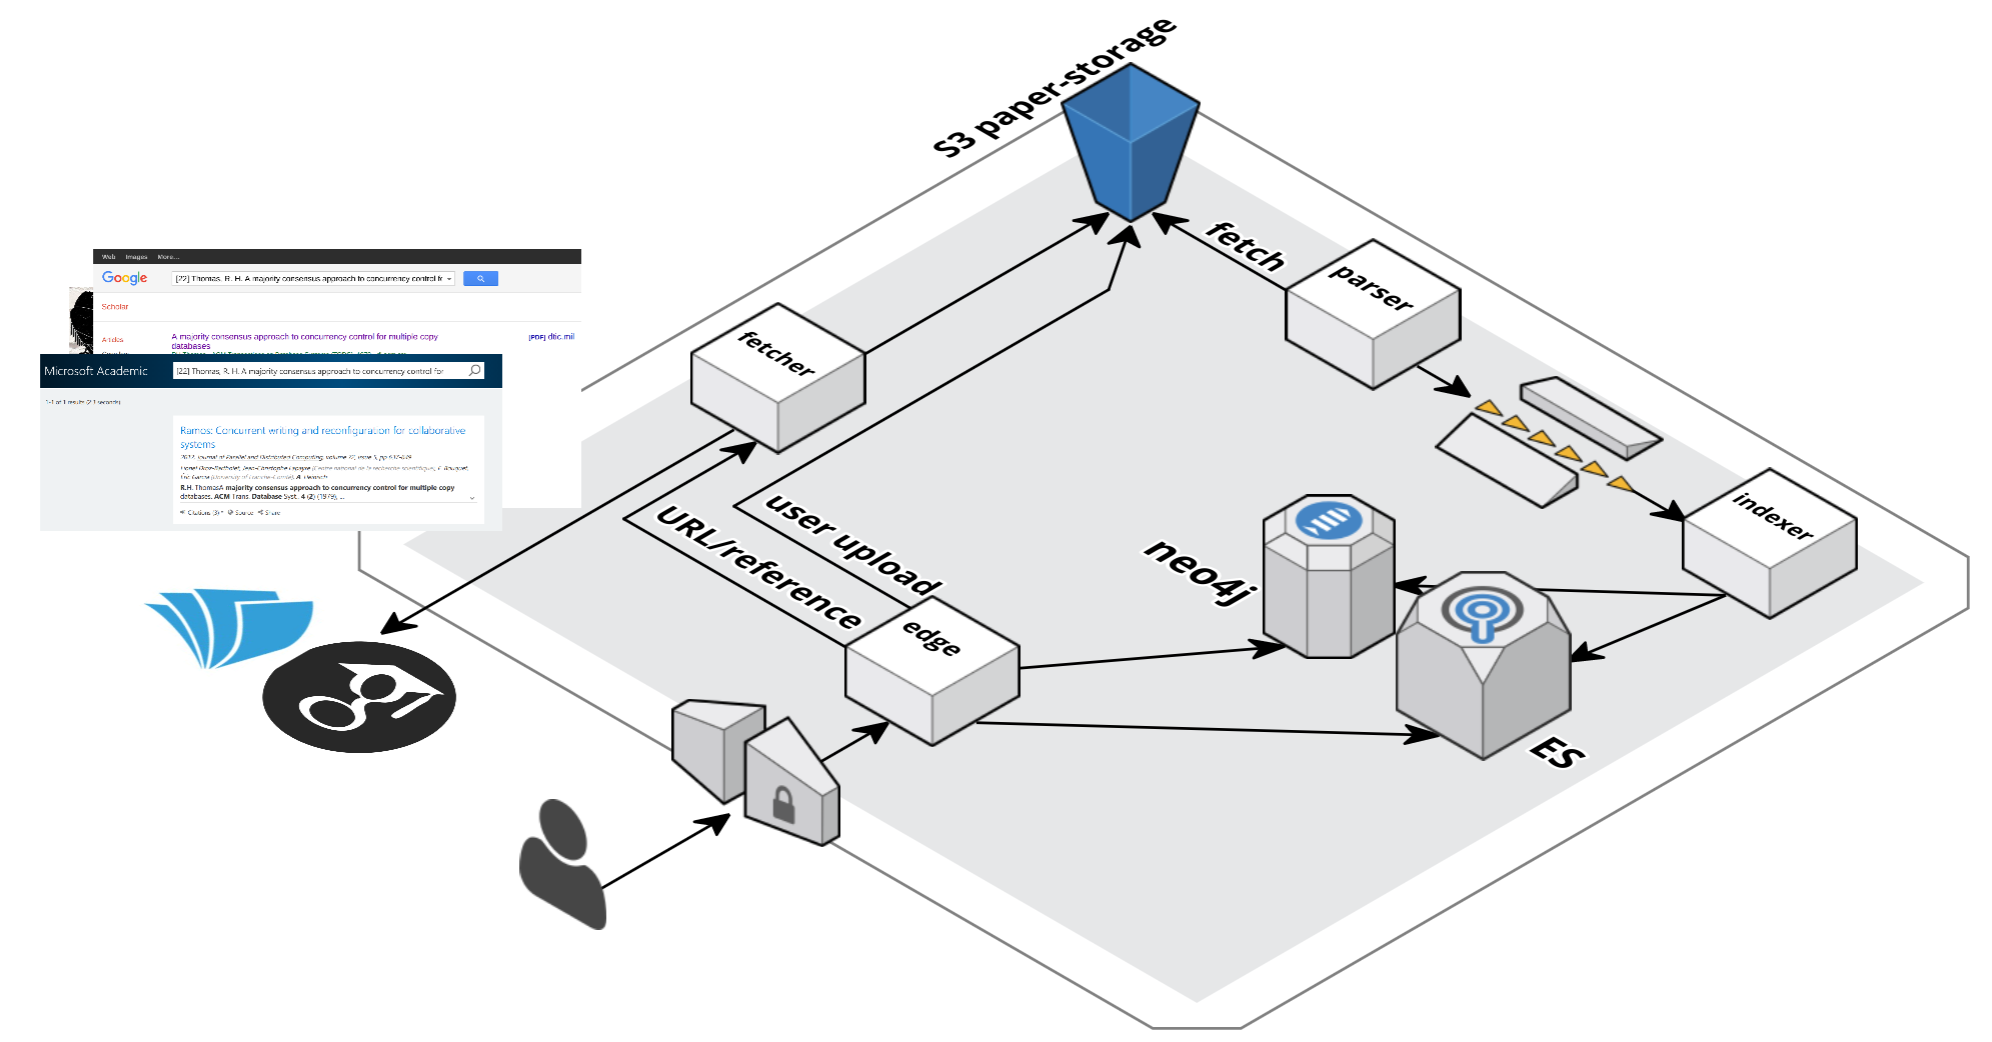
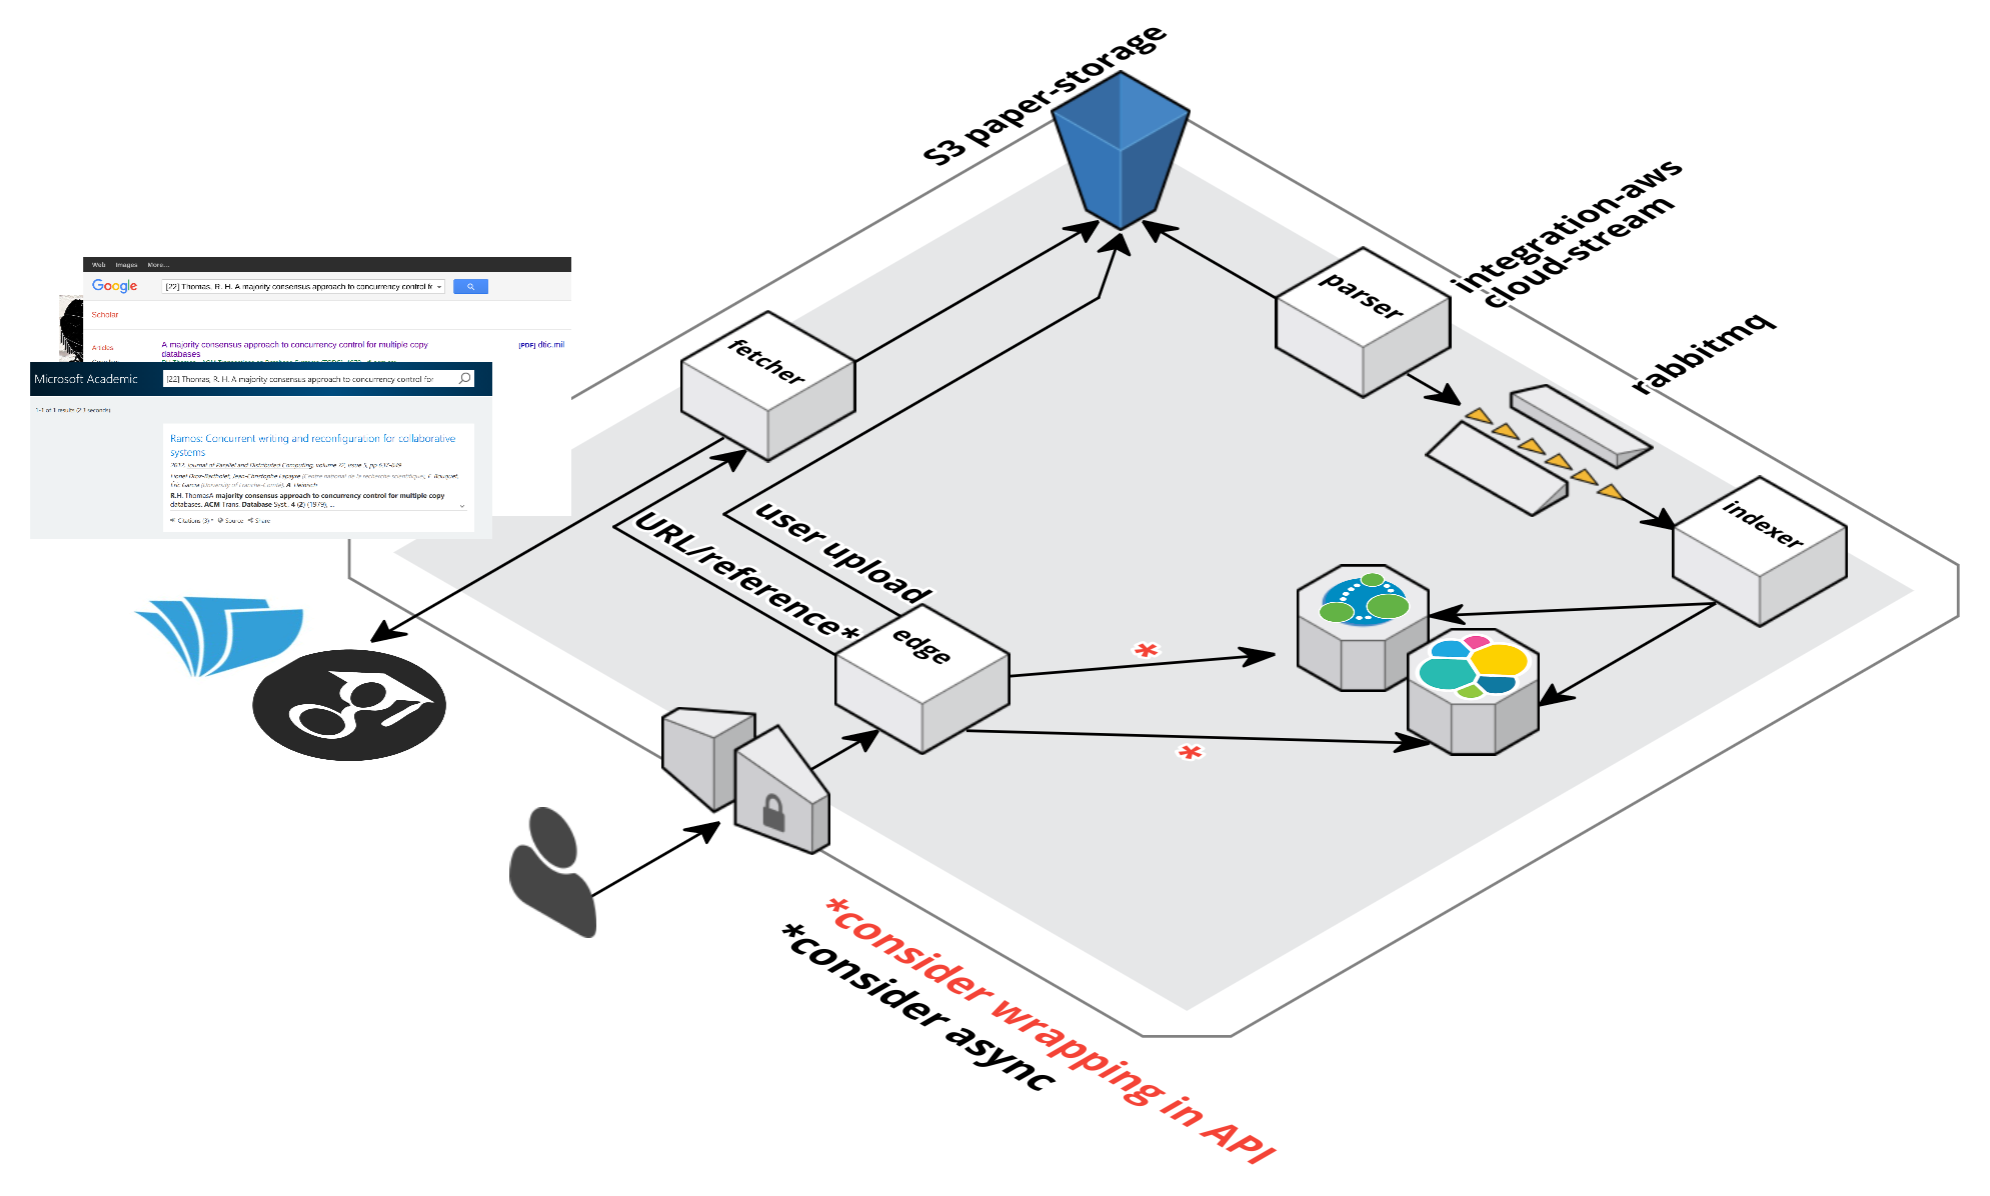
basic neo4j repository/index, diagram, todos

diff --git a/src/main/java/golonzovsky/paperreader/ReceiverConfig.java b/src/main/java/golonzovsky/paperreader/ReceiverConfig.java
@@ -1,8 +1,8 @@
 package golonzovsky.paperreader;
 
 import lombok.extern.slf4j.Slf4j;
+import org.springframework.beans.factory.InitializingBean;
 import org.springframework.beans.factory.annotation.Autowired;
-import org.springframework.boot.SpringApplication;
 import org.springframework.cloud.stream.annotation.EnableBinding;
 import org.springframework.cloud.stream.annotation.StreamListener;
 import org.springframework.cloud.stream.messaging.Sink;
@@ -20,14 +20,29 @@ import java.io.File;
 
 /* todo extract so separate app */
 @Slf4j
-@Configuration
 @EnableBinding(Sink.class)
 public class ReceiverConfig {
 
+    @Autowired
+    PaperRepository neoRepo;
+
+    @Bean
+    public InitializingBean init() {//todo dev only. remove
+        return neoRepo::deleteAll;
+    }
+
     @StreamListener(Sink.INPUT)
-    public void receiveAsync(Paper p) {
-        log.info("RECEIVE ASYNC '{}'", p.getTitle());
-        //todo store to neo4j and mongo/elastic for text search
+    public void createNeo4jEntry(Paper p) {
+        log.info("indexing createNeo4jEntry for '{}'", p.getTitle());
+        //todo store to neo4j finding existing references
+        neoRepo.save(p);
+    }
+
+    @StreamListener(Sink.INPUT)
+    public void createTextIndexEntry(Paper p) {
+        log.info("indexing createTextIndexEntry for'{}'", p.getTitle());
+        //todo store to mongo/elastic for full text search
+
     }
 
 }

diff --git a/src/main/java/golonzovsky/paperreader/Paper.java b/src/main/java/golonzovsky/paperreader/Paper.java
@@ -4,16 +4,26 @@ import lombok.Builder;
 import lombok.Getter;
 import lombok.Setter;
 import lombok.ToString;
+import org.neo4j.ogm.annotation.GraphId;
+import org.neo4j.ogm.annotation.NodeEntity;
+import org.neo4j.ogm.annotation.Relationship;
+import org.neo4j.ogm.annotation.Transient;
 
 import java.util.List;
 
-@Getter
-@Setter
-@ToString
-@Builder
-class Paper {
+@NodeEntity
+@Getter @Setter @ToString @Builder
+public class Paper {
+    @GraphId private Long id;
     private String title;
     private String authors;
+
+    @Transient
     private String referencesFull;
-    private List<String> references;
+
+    @Transient
+    private List<String> referencesText;
+
+    @Relationship(type = "REFERENCES")
+    private List<Paper> references;
 }

diff --git a/src/main/java/golonzovsky/paperreader/PaperRepository.java b/src/main/java/golonzovsky/paperreader/PaperRepository.java
@@ -1,0 +1,9 @@
+package golonzovsky.paperreader;
+
+import org.springframework.data.repository.PagingAndSortingRepository;
+import org.springframework.stereotype.Repository;
+
+@Repository
+public interface PaperRepository extends PagingAndSortingRepository<Paper, Long> {
+
+}

diff --git a/src/main/java/golonzovsky/paperreader/PaperParser.java b/src/main/java/golonzovsky/paperreader/PaperParser.java
@@ -53,6 +53,6 @@ class PaperParser {
                 .filter(s -> !s.isEmpty())
                 .map(s -> "[" + s)
                 .collect(Collectors.toList());
-        builder.references(refs);
+        builder.referencesText(refs);
     }
 }
